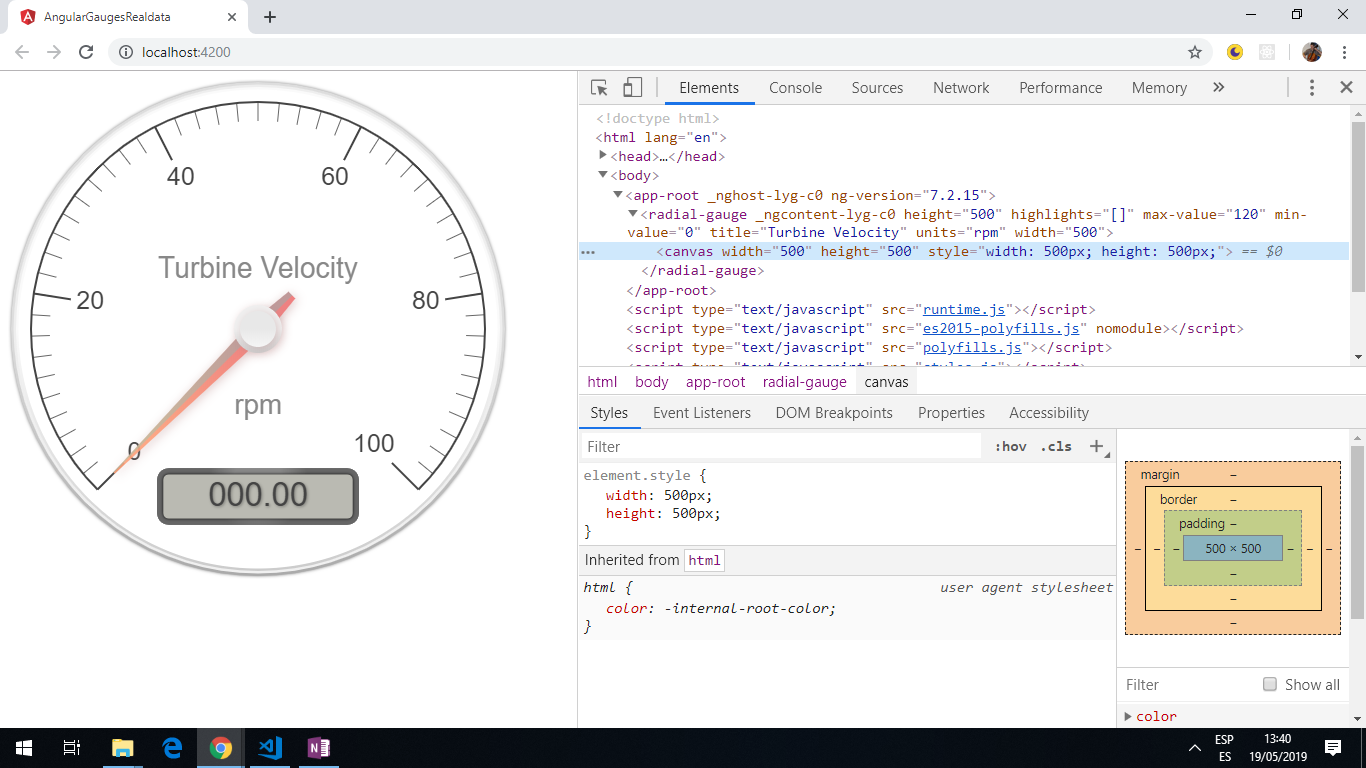
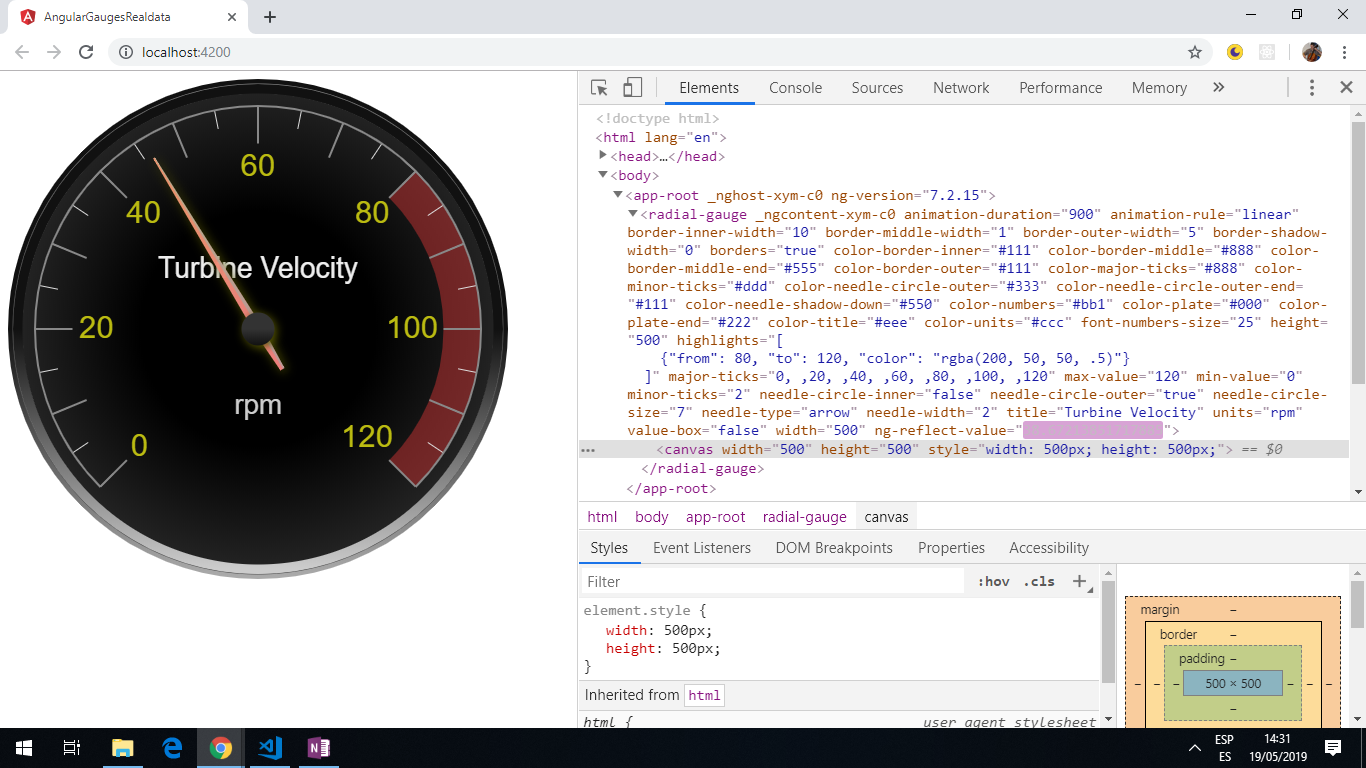
gauge functionality improved, readme updated

diff --git a/src/app/app.component.html b/src/app/app.component.html
@@ -1,9 +1,48 @@
 <radial-gauge
-    title="Turbine Velocity"
-    units="rpm"
-    width="500"
-    height="500"
-    min-value="0"
-    max-value="140"
-    highlights='[]'
+  [value]="(value$ | async)"
+  title="Turbine Velocity"
+  units="rpm"
+  width="500"
+  height="500"
+
+  min-value="0"
+  max-value="120"
+  major-ticks="0, ,20, ,40, ,60, ,80, ,100, ,120"
+  minor-ticks="2"
+  font-numbers-size="25"
+    
+  color-plate="#000"
+  color-plate-end="#222"
+  color-major-ticks="#888"
+  color-minor-ticks="#ddd"
+  color-title="#eee"
+  color-units="#ccc"
+  color-numbers="#bb1"
+  highlights='[
+    {"from": 80, "to": 120, "color": "rgba(200, 50, 50, .5)"}
+  ]'
+
+  needle-type="arrow"
+  needle-width="2"
+  needle-circle-size="7"
+  needle-circle-outer="true"
+  needle-circle-inner="false"
+  color-needle-shadow-down="#550"
+  color-needle-circle-outer="#333"
+  color-needle-circle-outer-end="#111"
+
+  animation-duration="900"
+  animation-rule="linear"
+    
+  borders="true"
+  border-inner-width="10"
+  border-middle-width="1"
+  border-outer-width="5"
+  border-shadow-width="0"
+  color-border-outer="#111"
+  color-border-middle="#888"
+  color-border-middle-end="#555"
+  color-border-inner="#111"
+    
+  value-box="false"
 ></radial-gauge>

diff --git a/src/app/app.component.ts b/src/app/app.component.ts
@@ -1,10 +1,20 @@
-import { Component } from '@angular/core';
+import { Component, OnInit } from '@angular/core';
+import { Observable, interval, timer } from 'rxjs';
+import { map } from 'rxjs/operators';
 
 @Component({
 	selector: 'app-root',
 	templateUrl: './app.component.html',
 	styleUrls: ['./app.component.css']
 })
-export class AppComponent {
-	title = 'angular-gauges-realdata';
+export class AppComponent implements OnInit {
+
+	public value$: Observable<number>;
+
+	ngOnInit() {
+		this.value$ = interval(1000).pipe(
+			map(() => Math.random() * 120)
+		);
+	}
+
 }

diff --git a/README.md b/README.md
@@ -1,6 +1,6 @@
 # Angular Gauges Real Data
 
-App to display real data using an Angular component wrapper [ng-canvas-gauges](https://www.npmjs.com/package/ng-canvas-gauges) for the [canvas-gauges](https://canvas-gauges.com/) library.
+App to display real data using an Angular component wrapper [ng-canvas-gauges](https://www.npmjs.com/package/ng-canvas-gauges) for the open-source Javascript [canvas-gauges](https://canvas-gauges.com/) library.
 
 *** Note: to open web links in a new window use: _ctrl+click on link_**
 
@@ -17,7 +17,7 @@ App to display real data using an Angular component wrapper [ng-canvas-gauges](h
 
 ## General info
 
-* Data displayed on analogue and digital gauges.
+* Data displayed on an analogue gauge. A random number function is used to simulate real-time data.
 
 ## Screenshots
 
@@ -37,29 +37,32 @@ Run `ng serve` for a dev server. Navigate to `http://localhost:4200/`. The app w
 
 ## Code Examples
 
-* app.component.html - defines the basic qualities of an analogue gauge with digital display.
+* app.component.html - extract - defines some of the qualities of the analogue gauge
 
 ```html
 <radial-gauge
-    title="Turbine Velocity"
-    units="rpm"
-    width="500"
-    height="500"
-    min-value="0"
-    max-value="140"
-    highlights='[]'
-></radial-gauge>
+  [value]="(value$ | async)"
+  title="Turbine Velocity"
+  units="rpm"
+  width="500"
+  height="500"
+
+  min-value="0"
+  max-value="120"
+  major-ticks="0, ,20, ,40, ,60, ,80, ,100, ,120"
+  minor-ticks="2"
+  font-numbers-size="25"
 ```
 
 ## Features
 
-* [Canvas Gauges website](https://canvas-gauges.com/) includes extensive [User documentation](https://canvas-gauges.com/documentation/user-guide/).
+* [Canvas Gauges website](https://canvas-gauges.com/) includes extensive [User Documentation](https://canvas-gauges.com/documentation/user-guide/).
 
 ## Status & To-Do List
 
-* Status: Very basic working app that displays a gauge, configurable from the `app.component.ts` file using values from [Highcharts documentation](https://api.highcharts.com/highcharts/chart#).
+* Status: Working app that displays a gauge, configurable from `app.component.html`.
 
-* To-Do: complete turorial. Add functionality and extend to include connection to an API.
+* To-Do: Add functionality and extend to include connection to an API.
 
 ## Inspiration
 
